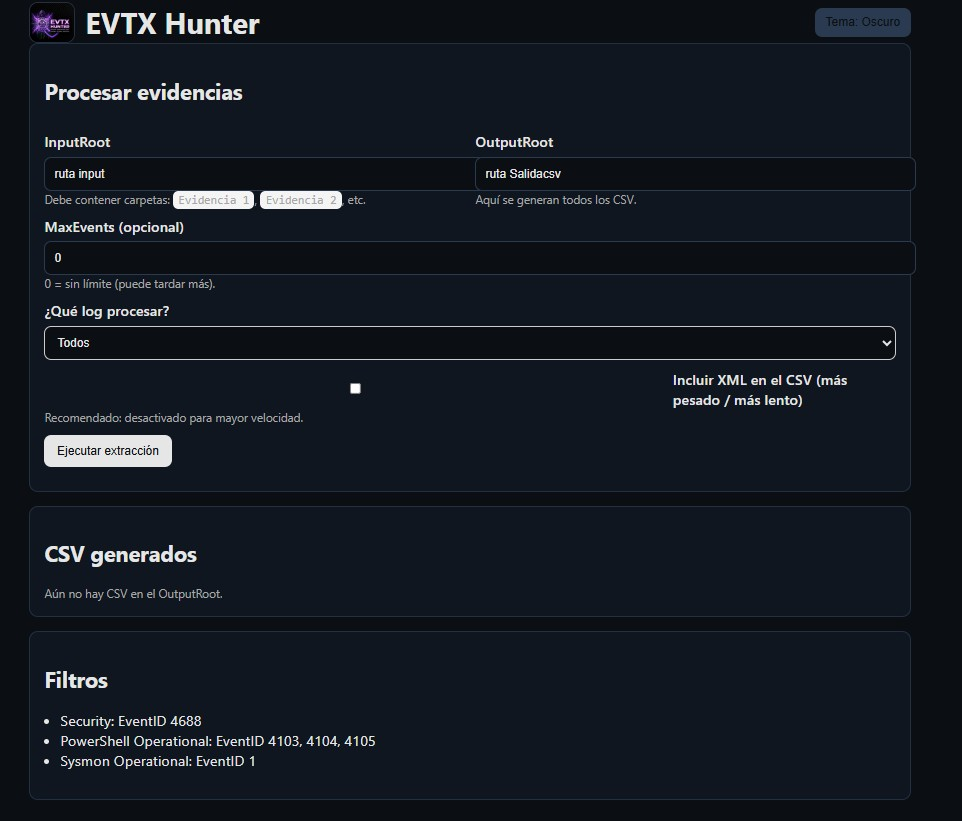
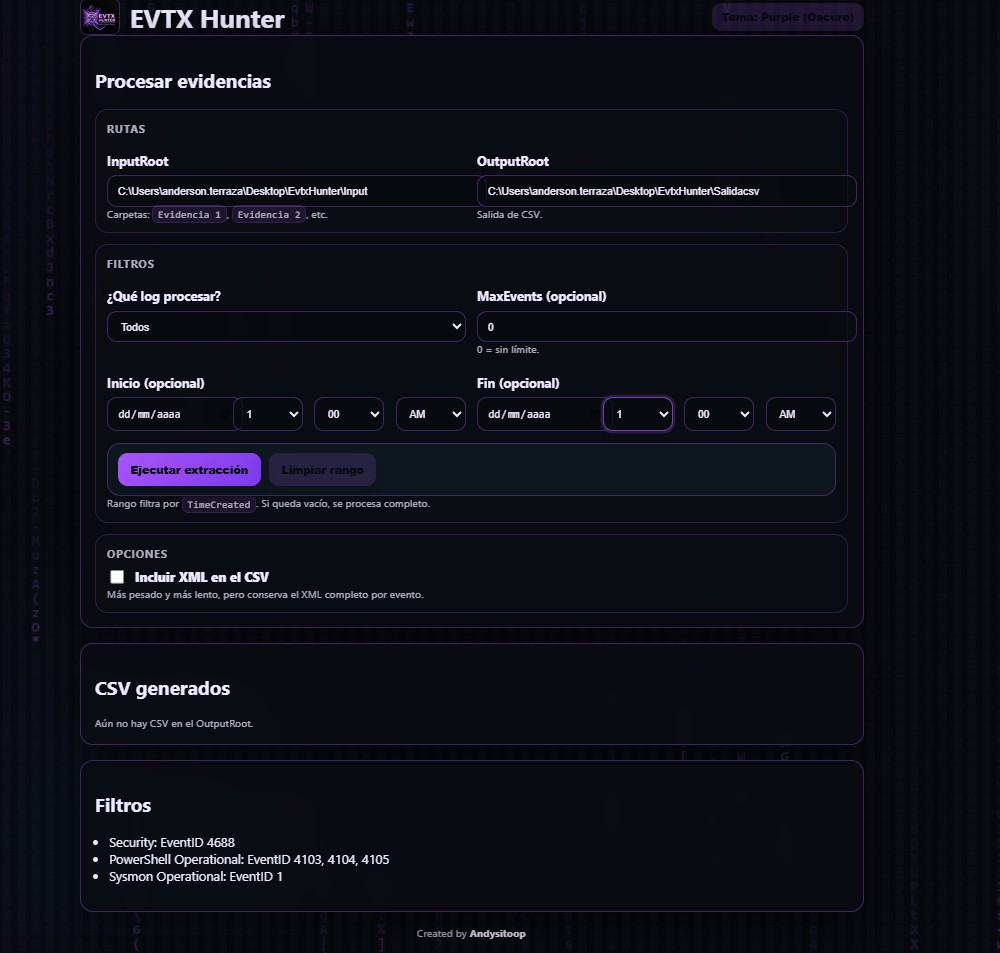
Polish UI layout and controls; add purple-themed animated code cascade background

diff --git a/templates/index.html b/templates/index.html
@@ -52,21 +52,25 @@
       --shadow: 0 18px 55px rgba(0, 0, 0, 0.55);
     }
 
-    body { font-family: system-ui, -apple-system, Segoe UI, Roboto, Arial, sans-serif; margin: 24px; background: var(--page-bg); color: var(--fg); }
-    .container { max-width: 980px; margin: 0 auto; }
-    .card { border: 1px solid var(--border); background: var(--card-bg); border-radius: 14px; padding: 16px; margin-bottom: 16px; box-shadow: var(--shadow); backdrop-filter: blur(10px); }
-    label { display: block; font-weight: 600; margin: 10px 0 6px; }
-    input { width: 100%; padding: 10px; border: 1px solid var(--input-border); border-radius: 10px; background: var(--input-bg); color: var(--fg); }
+    html, body { height: 100%; }
+    body { font-family: system-ui, -apple-system, Segoe UI, Roboto, Arial, sans-serif; margin: 24px; background: var(--page-bg); color: var(--fg); position: relative; overflow-x: hidden; }
+    #bgCanvas { position: fixed; inset: 0; width: 100%; height: 100%; z-index: 0; pointer-events: none; opacity: 0.55; }
+    .container { max-width: 980px; margin: 0 auto; position: relative; z-index: 1; }
+    .card { border: 1px solid var(--border); background: var(--card-bg); border-radius: 16px; padding: 18px; margin-bottom: 18px; box-shadow: var(--shadow); backdrop-filter: blur(10px); }
+    label { display: block; font-weight: 650; margin: 12px 0 8px; }
+    input { width: 100%; padding: 11px 12px; border: 1px solid var(--input-border); border-radius: 12px; background: var(--input-bg); color: var(--fg); }
     input:focus { outline: none; border-color: rgba(168, 85, 247, 0.70); box-shadow: 0 0 0 3px rgba(168, 85, 247, 0.20); }
-    select { background: var(--input-bg); color: var(--fg); border: 1px solid var(--input-border); border-radius: 10px; }
+    select { width: 100%; padding: 11px 12px; background: var(--input-bg); color: var(--fg); border: 1px solid var(--input-border); border-radius: 12px; }
     select:focus { outline: none; border-color: rgba(168, 85, 247, 0.70); box-shadow: 0 0 0 3px rgba(168, 85, 247, 0.20); }
-    button { padding: 10px 14px; border: 0; border-radius: 10px; background: var(--btn-bg); color: var(--btn-fg); cursor: pointer; font-weight: 700; }
+    button { padding: 11px 16px; border: 0; border-radius: 12px; background: var(--btn-bg); color: var(--btn-fg); cursor: pointer; font-weight: 800; letter-spacing: 0.01em; box-shadow: 0 10px 24px rgba(0, 0, 0, 0.20); }
     button:hover { background: var(--btn-hover); }
+    button:active { transform: translateY(1px); }
+    button:focus-visible { outline: none; box-shadow: 0 0 0 3px rgba(168, 85, 247, 0.26), 0 10px 24px rgba(0, 0, 0, 0.20); }
     button.secondary { background: var(--btn-secondary); color: var(--btn-fg); }
     button.secondary:hover { background: var(--btn-secondary-hover); }
     button.danger { background: var(--danger); color: #fff; }
     button.danger:hover { background: var(--danger-hover); }
-    .row { display: grid; grid-template-columns: 1fr 1fr; gap: 12px; }
+    .row { display: grid; grid-template-columns: 1fr 1fr; gap: 14px; }
     .hint { color: var(--muted); font-size: 13px; }
     .flash { background: var(--card-bg); border: 1px solid var(--border); padding: 10px 12px; border-radius: 8px; margin-bottom: 10px; }
     .progress-wrap { margin-top: 12px; }
@@ -87,17 +91,24 @@
     a:hover { text-decoration: underline; }
     code { background: rgba(168, 85, 247, 0.12); padding: 2px 6px; border-radius: 8px; border: 1px solid rgba(168, 85, 247, 0.18); }
 
-    .section { border: 1px solid rgba(168, 85, 247, 0.22); border-radius: 14px; padding: 12px; margin-top: 12px; background: rgba(11, 15, 20, 0.22); }
+    .section { border: 1px solid rgba(168, 85, 247, 0.22); border-radius: 16px; padding: 14px; margin-top: 14px; background: rgba(11, 15, 20, 0.22); }
     .section h3 { margin: 0 0 8px; font-size: 14px; text-transform: uppercase; letter-spacing: .06em; color: var(--muted); }
-    .actions-bar { display:flex; gap:8px; flex-wrap:wrap; align-items:center; justify-content:flex-start; margin-top: 12px; position: sticky; bottom: 12px; background: rgba(15, 22, 32, 0.92); padding: 10px; border: 1px solid rgba(168, 85, 247, 0.30); border-radius: 14px; backdrop-filter: blur(10px); }
+    .actions-bar { display:flex; gap:10px; flex-wrap:wrap; align-items:center; justify-content:flex-start; margin-top: 14px; position: sticky; bottom: 12px; background: rgba(15, 22, 32, 0.94); padding: 12px; border: 1px solid rgba(168, 85, 247, 0.32); border-radius: 16px; backdrop-filter: blur(10px); }
     .actions-bar .spacer { flex: 1; }
+    .actions-bar button { min-height: 40px; }
+    .actions-bar button.secondary { box-shadow: 0 10px 24px rgba(0, 0, 0, 0.16); }
     .tiny { font-size: 12px; padding: 6px 10px; }
+
+    input[type="checkbox"] { width: 18px; height: 18px; accent-color: var(--accent); }
+    .checkline { display:flex; align-items:center; justify-content:space-between; gap:12px; font-weight:800; margin:0; }
+    .checkline .left { display:flex; align-items:center; gap:10px; }
 
     .footer { margin-top: 18px; text-align: center; color: var(--muted); font-size: 13px; }
     .footer strong { color: var(--fg); }
   </style>
 </head>
 <body>
+  <canvas id="bgCanvas" aria-hidden="true"></canvas>
   <div class="container" id="app" data-job-id="{{ job_id or '' }}">
     <div style="display:flex; align-items:center; justify-content:space-between; gap:12px; flex-wrap:wrap;">
       <div style="display:flex; align-items:center; gap:12px;">
@@ -140,7 +151,7 @@
           <div class="row">
             <div>
               <label>¿Qué log procesar?</label>
-              <select name="logs_choice" style="width:100%; padding:10px; border:1px solid #ccc; border-radius:8px;">
+              <select name="logs_choice">
                 <option value="all" selected>Todos</option>
                 <option value="security">Security (4688)</option>
                 <option value="powershell">PowerShell (4103/4104/4105)</option>
@@ -159,17 +170,17 @@
               <label>Inicio (opcional)</label>
               <div class="row" style="grid-template-columns: 1.3fr 0.8fr 0.8fr 0.8fr;">
                 <input type="date" name="start_date" />
-                <select name="start_hour" style="width:100%; padding:10px; border:1px solid #ccc; border-radius:8px;">
+                <select name="start_hour">
                   {% for h in range(1, 13) %}
                     <option value="{{ h }}">{{ h }}</option>
                   {% endfor %}
                 </select>
-                <select name="start_minute" style="width:100%; padding:10px; border:1px solid #ccc; border-radius:8px;">
+                <select name="start_minute">
                   {% for m in range(0, 60) %}
                     <option value="{{ '%02d'|format(m) }}" {% if m == 0 %}selected{% endif %}>{{ '%02d'|format(m) }}</option>
                   {% endfor %}
                 </select>
-                <select name="start_ampm" style="width:100%; padding:10px; border:1px solid #ccc; border-radius:8px;">
+                <select name="start_ampm">
                   <option value="AM" selected>AM</option>
                   <option value="PM">PM</option>
                 </select>
@@ -179,17 +190,17 @@
               <label>Fin (opcional)</label>
               <div class="row" style="grid-template-columns: 1.3fr 0.8fr 0.8fr 0.8fr;">
                 <input type="date" name="end_date" />
-                <select name="end_hour" style="width:100%; padding:10px; border:1px solid #ccc; border-radius:8px;">
+                <select name="end_hour">
                   {% for h in range(1, 13) %}
                     <option value="{{ h }}">{{ h }}</option>
                   {% endfor %}
                 </select>
-                <select name="end_minute" style="width:100%; padding:10px; border:1px solid #ccc; border-radius:8px;">
+                <select name="end_minute">
                   {% for m in range(0, 60) %}
                     <option value="{{ '%02d'|format(m) }}" {% if m == 0 %}selected{% endif %}>{{ '%02d'|format(m) }}</option>
                   {% endfor %}
                 </select>
-                <select name="end_ampm" style="width:100%; padding:10px; border:1px solid #ccc; border-radius:8px;">
+                <select name="end_ampm">
                   <option value="AM" selected>AM</option>
                   <option value="PM">PM</option>
                 </select>
@@ -210,9 +221,11 @@
 
         <div class="section">
           <h3>Opciones</h3>
-          <label style="display:flex; align-items:center; gap:8px; font-weight:700; margin:0;">
-            <input type="checkbox" name="include_xml" id="includeXml" />
-            Incluir XML en el CSV
+          <label class="checkline">
+            <span class="left">
+              <input type="checkbox" name="include_xml" id="includeXml" />
+              <span>Incluir XML en el CSV</span>
+            </span>
           </label>
           <div class="hint">Más pesado y más lento, pero conserva el XML completo por evento.</div>
         </div>
@@ -267,6 +280,75 @@
   </div>
 
   <script>
+    (function initCodeRain() {
+      const canvas = document.getElementById('bgCanvas');
+      if (!canvas) return;
+      const ctx = canvas.getContext('2d', { alpha: true });
+      if (!ctx) return;
+
+      const prefersReduced = window.matchMedia && window.matchMedia('(prefers-reduced-motion: reduce)').matches;
+      if (prefersReduced) return;
+
+      let dpr = Math.max(1, Math.min(2, window.devicePixelRatio || 1));
+      let width = 0;
+      let height = 0;
+      let fontSize = 16;
+      let columns = 0;
+      let drops = [];
+
+      const chars = (
+        'ABCDEFGHIJKLMNOPQRSTUVWXYZ' +
+        'abcdefghijklmnopqrstuvwxyz' +
+        '0123456789' +
+        '[]{}()<>=+-/*_\\|;:.,#@$%&'
+      );
+
+      function resize() {
+        dpr = Math.max(1, Math.min(2, window.devicePixelRatio || 1));
+        width = Math.floor(window.innerWidth);
+        height = Math.floor(window.innerHeight);
+        canvas.width = Math.floor(width * dpr);
+        canvas.height = Math.floor(height * dpr);
+        canvas.style.width = width + 'px';
+        canvas.style.height = height + 'px';
+        ctx.setTransform(dpr, 0, 0, dpr, 0, 0);
+
+        fontSize = Math.max(14, Math.min(18, Math.floor(width / 70)));
+        columns = Math.floor(width / fontSize);
+        drops = new Array(columns).fill(0).map(() => Math.floor(Math.random() * (height / fontSize)));
+        ctx.font = `600 ${fontSize}px ui-monospace, SFMono-Regular, Menlo, Consolas, \"Liberation Mono\", monospace`;
+      }
+
+      function randChar() {
+        return chars[Math.floor(Math.random() * chars.length)];
+      }
+
+      function draw() {
+        ctx.fillStyle = 'rgba(7, 10, 15, 0.12)';
+        ctx.fillRect(0, 0, width, height);
+
+        for (let i = 0; i < columns; i++) {
+          const x = i * fontSize;
+          const y = drops[i] * fontSize;
+
+          const isHead = Math.random() > 0.965;
+          const base = isHead ? 'rgba(233, 231, 255, 0.72)' : 'rgba(168, 85, 247, 0.52)';
+          ctx.fillStyle = base;
+          ctx.fillText(randChar(), x, y);
+
+          const resetChance = 0.012;
+          if (y > height && Math.random() < resetChance) drops[i] = 0;
+          else drops[i] += 1;
+        }
+
+        requestAnimationFrame(draw);
+      }
+
+      resize();
+      window.addEventListener('resize', resize);
+      requestAnimationFrame(draw);
+    })();
+
     const appEl = document.getElementById('app');
     const jobIdRaw = appEl ? appEl.getAttribute('data-job-id') : '';
     let jobId = (jobIdRaw && jobIdRaw.trim().length > 0) ? jobIdRaw.trim() : null;
